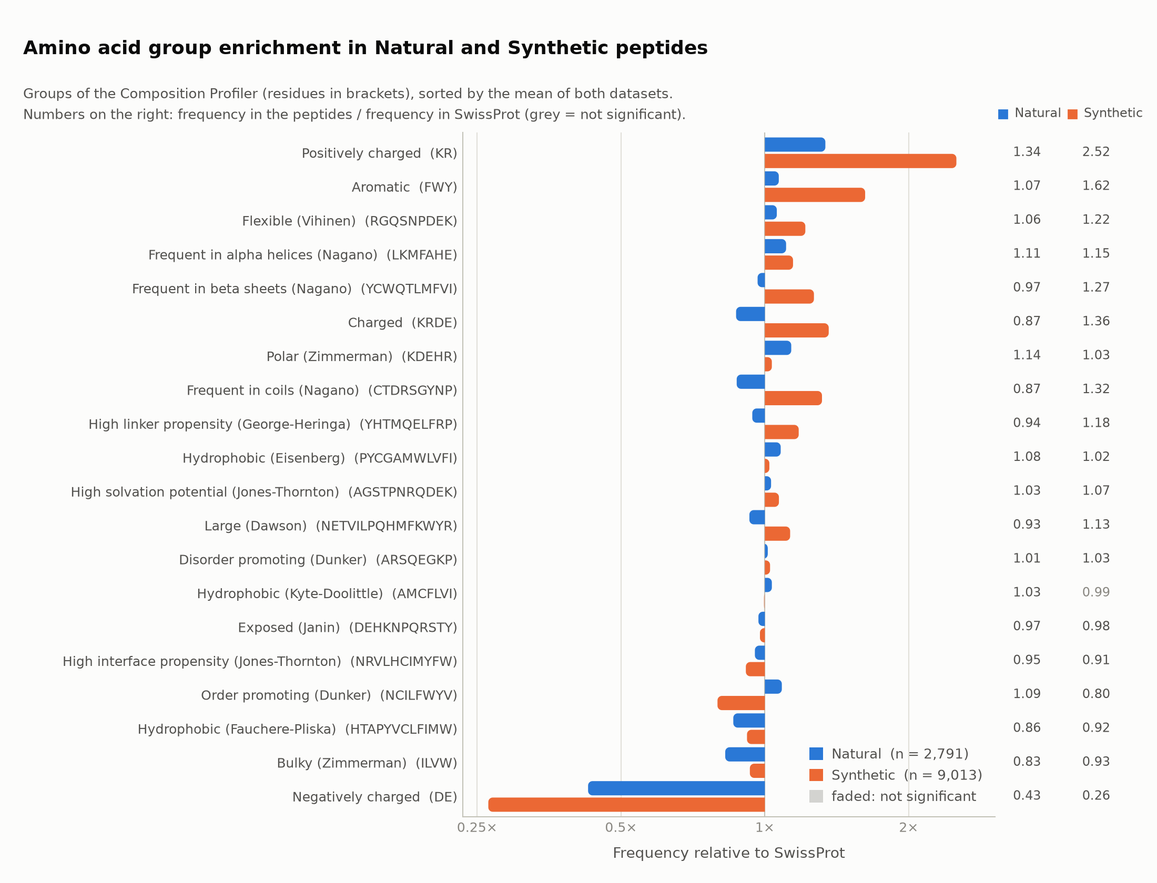
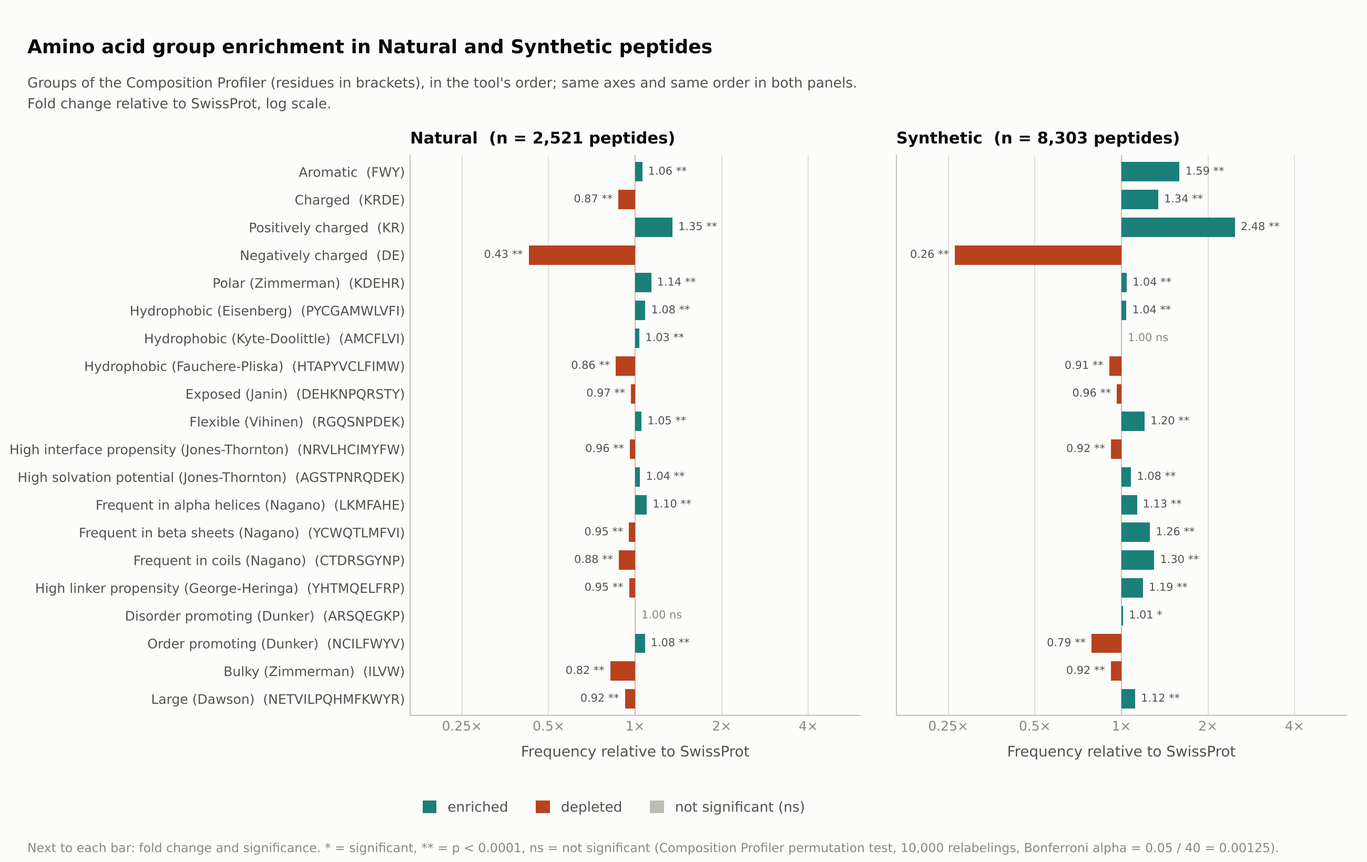
Redo amino acid enrichment on the cleaned data, update deliverables README
- 04 re-run (Composition Profiler, 10,000 permutations) on the 2,521 Natural and
  8,303 Synthetic peptides; tables regenerated.
- 05: both enrichment figures regenerated with one shared axis, order and scale,
  colour coding and significance marks.
- deliverables/README.md rewritten for the new dataset (X rules, minimum
  length, new counts, Ala caveat); main README points to the changes.

Claude-Session: https://claude.ai/code/session_014wtB1icSBmnpkHW4JDxkCH

diff --git a/deliverables/README.md b/deliverables/README.md
@@ -1,22 +1,23 @@
-# Deliverables: DBAASP peptides after CD-HIT, 90 % identity (Natural + Synthetic)
+# Deliverables: DBAASP peptides after cleaning and CD-HIT, 90 % identity (Natural + Synthetic)
 
-One FASTA of all Natural and Synthetic peptides after CD-HIT at 90 % identity, the exact count of sequences lost on the
-way, the length figures, and the amino acid enrichment of the two datasets against SwissProt. Everything here is rebuilt from
-`../raw_data/dbaasp_datasets_corrected.zip` by the four scripts in `scripts/`. Nothing outside this folder is read or changed
-except that zip (and, for step 4, the installed `cprofiler` package).
+One FASTA of all Natural and Synthetic peptides after cleaning (X handling, minimum length) and CD-HIT at 90 % identity, the exact
+count of sequences lost on the way, the length figures, and the amino acid enrichment of the two datasets against SwissProt.
+Everything here is rebuilt from `../raw_data/dbaasp_datasets_corrected.zip` by the five scripts in `scripts/`. Nothing outside
+this folder is read or changed except that zip (and, for steps 4 and 5, the installed `cprofiler` package).
 
 ```
 deliverables/
-  fasta/amp_cdhit90.fasta                 11,804 peptides (Natural + Synthetic), ">DBAASP_<ID>" + one-line upper-case sequence
-  fasta/amp_natural_cdhit90.fasta         the 2,791 Natural peptides of that file
-  fasta/amp_synthetic_cdhit90.fasta       the 9,013 Synthetic peptides of that file
+  fasta/amp_cdhit90.fasta                 10,824 peptides (Natural + Synthetic), ">DBAASP_<ID>" + one-line upper-case sequence
+  fasta/amp_natural_cdhit90.fasta         the 2,521 Natural peptides of that file
+  fasta/amp_synthetic_cdhit90.fasta       the 8,303 Synthetic peptides of that file
   figures/length_histogram_overlap.png         overlapping histograms + smooth lines: entire / Natural / Synthetic (each as % of its group)
   figures/length_histogram_overlap_counts.png  the same with peptide counts
   figures/length_category_fraction_bar.png     share of Natural and Synthetic peptides per length category
-  figures/amino_acid_enrichment.png            the 20 amino acids, Natural and Synthetic vs SwissProt (fold change, log scale)
+  figures/amino_acid_enrichment.png            the 20 amino acids, Natural and Synthetic in ONE image (same axes, same order, significance marks)
   figures/amino_acid_group_enrichment.png      the 20 amino acid groups of the Composition Profiler, the same way
   tables/redundancy_removal_summary.csv   step-by-step counts, Natural / Synthetic / Total
   tables/removed_records.csv              every lost record: why, and which kept peptide covers it (+ identity for CD-HIT)
+  tables/x_to_alanine_counts.csv          peptides and residues in which X was changed to Alanine
   tables/peptide_metadata.csv             FASTA ID -> origin, length, length category, sequence
   tables/length_summary.csv               numbers behind the histogram
   tables/length_category_fractions.csv    numbers behind the bar chart
@@ -25,13 +26,24 @@ deliverables/
   tables/aa_enrichment_background_check.csv       the same effects with AMP-named proteins removed from the background
   background/swissprot51_5k.fasta         SwissProt background, 5,002 proteins (identical to the tool's own `-D sprot` file)
   cdhit/                                  CD-HIT input, output, cluster file (.clstr) and log
-  scripts/01_remove_redundancy.py  02_make_figures.py  03_check_cdhit_result.py  04_aa_enrichment.py
+  scripts/01_remove_redundancy.py  02_make_figures.py  03_check_cdhit_result.py  04_aa_enrichment.py  05_enrichment_figures.py
 ```
+
+## 0. What changed in this version
+
+* **`X` (non-standard residue)** is no longer kept. Per peptide: if `X` is **30 % or more** of the peptide it is removed (1,214 peptides); below
+  that every `X` becomes **Alanine** (2,610 peptides, 4,494 residues, `tables/x_to_alanine_counts.csv`). Peptides made only of `X` were already removed.
+  The 30 % cutoff is my choice (`X_MAX_FRACTION` in script 01); the alternative of converting all `X` would keep peptides that are up to 89 % `X`.
+* **Minimum length:** a peptide needs at least **3 real (non-`X`) amino acids** (`MIN_REAL`); 775 peptides fall below it, including the
+  15 single-residue entries. The check runs before `X` becomes Ala.
+* Duplicates are searched **after** `X` -> Ala, because the change can make two peptides identical.
+* Amino acid figures: Natural and Synthetic share one image, identical axes, scale and amino acid order (hydrophilic -> hydrophobic),
+  colour-coded, with the Composition Profiler's significance marked (section 3).
 
 ## 1. Sequences lost
 
-**CD-HIT (>= 90 % identity) removed 6,735 sequences** (781 Natural, 5,954 Synthetic) of the 15,803 it was given (42.6 %).
-Counted from the raw DBAASP export, **13,738 of 25,542 rows are lost, 11,804 remain.**
+**CD-HIT (>= 90 % identity) removed 6,615 sequences** (760 Natural, 5,855 Synthetic) of the 15,289 it was given (43.3 %).
+Counted from the raw DBAASP export, **14,718 of 25,542 rows are lost, 10,824 remain.**
 
 | Step | what is removed | Natural | Synthetic | **Total lost** | left |
 |---|---|---|---|---|---|
@@ -39,17 +51,21 @@ Counted from the raw DBAASP export, **13,738 of 25,542 rows are lost, 11,804 rem
 | 1 | exact duplicate row (same entry, same ID, twice) | 406 | 1,594 | 2,000 | 23,542 |
 | 2 | multi-chain entry (several chains in one cell, length not reliable) | 97 | 538 | 635 | 22,907 |
 | 3 | sequence made only of `X` | 27 | 321 | 348 | 22,559 |
-| 4 | duplicate sequence within the same origin | 391 | 3,462 | 3,853 | 18,706 |
-| 5 | same sequence in Natural and in Synthetic (Natural entry kept) | 0 | 167 | 167 | 18,539 |
-| 6 | **CD-HIT, >= 90 % identity** | **781** | **5,954** | **6,735** | **11,804** |
-| | **final** | **2,791** | **9,013** | | |
+| 4 | **fewer than 3 real (non-`X`) amino acids** | 197 | 578 | 775 | 21,784 |
+| 5 | **`X` is >= 30 % of the peptide** | 261 | 953 | 1,214 | 20,570 |
+| | (remaining `X` -> Ala: 331 Natural + 2,279 Synthetic peptides, no loss) | | | | |
+| 6 | duplicate sequence within the same origin (after X -> Ala) | 224 | 2,786 | 3,010 | 17,560 |
+| 7 | same sequence in Natural and in Synthetic (Natural entry kept) | 0 | 121 | 121 | 17,439 |
+| 8 | **CD-HIT, >= 90 % identity** | **760** | **5,855** | **6,615** | **10,824** |
+| | **final** | **2,521** | **8,303** | | |
 
-Steps 1 to 4 are the existing cleaning of `scripts/01_clean_datasets.py`; they reproduce the repository's cleaned
-files ID for ID. Step 1 removes repeated rows of the same entry, so it is not a loss of distinct peptides: of the
-23,542 distinct entries, 11,738 are lost.
+Steps 1 to 3 and 6 are the existing cleaning of `scripts/01_clean_datasets.py`. Step 1 removes repeated rows of the same entry, so it is not a
+loss of distinct peptides: of the 23,542 distinct entries, 12,718 are lost. Because the new steps 4 and 5 run before the duplicate search,
+the duplicate steps find fewer duplicates than before (3,010 + 121 instead of 3,853 + 167), because many duplicates were already removed with the
+`X` and short peptides. Step counts are therefore not comparable one to one with the previous version (which kept 11,804).
 
-CD-HIT arithmetic: 18,539 peptides enter step 6. 2,736 of them are shorter than 10 aa and skip CD-HIT (section 4).
-The other 15,803 go in, 9,068 representatives come out, 6,735 are removed. 9,068 + 2,736 = 11,804.
+CD-HIT arithmetic: 17,439 peptides enter step 8. 2,150 of them are shorter than 10 aa and skip CD-HIT (section 4).
+The other 15,289 go in, 8,674 representatives come out, 6,615 are removed. 8,674 + 2,150 = 10,824.
 
 ## 2. Length figures
 
@@ -58,99 +74,111 @@ The other 15,803 go in, 9,068 representatives come out, 6,735 are removed. 9,068
 
 | | Natural | Synthetic | Entire |
 |---|---|---|---|
-| n | 2,791 | 9,013 | 11,804 |
-| median / mean length (aa) | 23 / 25.6 | 13 / 15.6 | 15 / 17.9 |
-| Q1 to Q3 | 13 to 34 | 9 to 20 | 10 to 22 |
+| n | 2,521 | 8,303 | 10,824 |
+| median / mean length (aa) | 24 / 27.5 | 14 / 16.1 | 16 / 18.8 |
+| Q1 to Q3 | 15 to 35 | 10 to 20 | 11 to 23 |
 
 | Share of group in category | Natural | Synthetic |
 |---|---|---|
-| 1 aa (out of range) | 0 % | 0.2 % |
-| Ultrashort 2-9 aa | 17.0 % | 24.9 % |
-| Short 10-24 aa | 37.9 % | **62.0 %** |
-| Medium 25-50 aa | **38.5 %** | 12.3 % |
-| Long 51-100 aa | 6.1 % | 0.5 % |
-| > 100 aa | 0.6 % | 0.02 % |
+| Ultrashort 3-9 aa | 11.2 % | 22.5 % |
+| Short 10-24 aa | 38.8 % | **63.7 %** |
+| Medium 25-50 aa | **42.6 %** | 13.2 % |
+| Long 51-100 aa | 6.7 % | 0.6 % |
+| > 100 aa | 0.7 % | 0.02 % |
 
-Natural peptides are longer (median 23 vs 13 aa) and make up most of the Long (170 of 217) and > 100 aa (17 of 19)
-peptides. Synthetic peptides sit mostly in the Short class. The Synthetic histogram has sharp spikes (e.g. 509 peptides at
-20 aa but 278 at 19 aa; also 12-13 and 18 aa), probably convenient design lengths.
+No peptide is shorter than 3 aa any more (so the "1 aa" and "2 aa" categories are empty and no longer drawn). Natural peptides are longer
+(median 24 vs 14 aa) and make up most of the Long (170 of 217) and > 100 aa (17 of 19) peptides. Synthetic peptides sit mostly in the Short class.
+The Synthetic histogram has sharp spikes (e.g. 659 peptides at 12 aa, 504 at 20 aa but 260 at 19 aa; also 9, 13 and 18 aa), probably convenient design lengths.
+The length figures carry no significance marks (the Composition Profiler gives p-values for composition only).
 
 ## 3. Amino acid enrichment vs SwissProt
 
 How much more or less often each amino acid occurs in the Natural and in the Synthetic peptides than in typical proteins
-(background = SwissProt).
+(background = SwissProt). Both datasets are in one image, with the same axes, the same scale and the same amino acid order.
 
 ![amino acid enrichment](figures/amino_acid_enrichment.png)
 
-**Method** (`scripts/04_aa_enrichment.py`, the same tool, functions and settings as `scripts/06_run_composition_profiler.py` of the main analysis)
+**Method** (`scripts/04_aa_enrichment.py` computes, `scripts/05_enrichment_figures.py` draws; the same tool, functions and settings as `scripts/06_run_composition_profiler.py` of the main analysis)
 * Tool: the official Composition Profiler, https://github.com/vvacic/cprofiler (v2.0).
-* Queries: `fasta/amp_natural_cdhit90.fasta` (2,791 peptides, 70,004 residues counted) and `fasta/amp_synthetic_cdhit90.fasta`
-  (9,013 peptides, 136,373 residues), i.e. the CD-HIT 90 % datasets of this folder.
+* Queries: `fasta/amp_natural_cdhit90.fasta` (2,521 peptides, 69,411 residues) and `fasta/amp_synthetic_cdhit90.fasta`
+  (8,303 peptides, 133,978 residues), i.e. the CD-HIT 90 % datasets of this folder. They contain no `X` any more.
 * Background, the same for both: `background/swissprot51_5k.fasta`, 5,002 randomly sampled SwissProt proteins (release 51,
   1,799,466 residues). It is the file the tool ships as `-D sprot` (checked byte for byte).
 * Effect = (frequency in the peptides - frequency in SwissProt) / frequency in SwissProt, residues pooled over all sequences.
-  The tables and figures use the **fold change = 1 + effect** (2.82 means 2.82 times as frequent as in SwissProt).
+  The tables and figures use the **fold change = 1 + effect** (2.77 means 2.77 times as frequent as in SwissProt).
 * p-value: 10,000 random relabelings of whole sequences between peptides and background, two-tailed, so the smallest value is
   1 / 10,000 (a 0 in the table means p < 0.0001). Significant = p < 0.05 / 40 = 0.00125 (Bonferroni, 20 amino acids + 20 groups).
   The seed is fixed, so a re-run gives the same table.
+
+**How the figures are built (so that they can be compared)**
+* Same x axis in both panels: the amino acids in the Composition Profiler's own hydrophobicity order (Kyte-Doolittle, `-X hydrophobicity_kyte`),
+  from hydrophilic (R) to hydrophobic (I). Same y axis in both panels: fold change on one log scale, 0.16x to 9.8x.
+* Bars are colour-coded along that order (red = hydrophilic ... dark blue = hydrophobic). **Gray bars are not significant.**
+* Marks next to every bar: `*` significant (p < 0.00125 after Bonferroni), `**` p < 0.0001 (no random relabeling reached the observed
+  effect, the smallest value 10,000 iterations can give), `ns` not significant. The numbers are the Composition Profiler's own call.
+* The group figure uses the same two-panel layout, the tool's group order in both panels, and colours enriched (teal), depleted (rust), not significant (gray).
 
 **Single amino acids** (fold change vs SwissProt; `tables/aa_enrichment_natural_vs_synthetic.csv` also has the frequencies, effects and p-values)
 
 | Amino acid | in SwissProt (% of residues) | Natural | Natural result | Synthetic | Synthetic result |
 |---|---|---|---|---|---|
-| A | 7.91 | 0.97 | Not significant | 0.82 | Depleted |
-| C | 1.50 | 4.43 | Enriched | 1.35 | Enriched |
-| D | 5.36 | 0.49 | Depleted | 0.25 | Depleted |
+| A | 7.91 | 1.04 | Not significant | 0.96 | Depleted |
+| C | 1.50 | 4.45 | Enriched | 1.34 | Enriched |
+| D | 5.36 | 0.48 | Depleted | 0.25 | Depleted |
 | E | 6.68 | 0.38 | Depleted | 0.27 | Depleted |
-| F | 3.98 | 1.15 | Enriched | 1.39 | Enriched |
-| G | 6.97 | 1.58 | Enriched | 0.85 | Depleted |
+| F | 3.98 | 1.14 | Enriched | 1.34 | Enriched |
+| G | 6.97 | 1.57 | Enriched | 0.83 | Depleted |
 | H | 2.30 | 0.90 | Depleted | 0.87 | Depleted |
-| I | 5.98 | 1.04 | Not significant | 1.07 | Enriched |
-| K | 5.96 | 1.61 | Enriched | 2.82 | Enriched |
-| L | 9.71 | 0.92 | Depleted | 1.26 | Enriched |
-| M | 2.39 | 0.51 | Depleted | 0.39 | Depleted |
+| I | 5.98 | 1.03 | Not significant | 1.07 | Enriched |
+| K | 5.96 | 1.62 | Enriched | 2.77 | Enriched |
+| L | 9.71 | 0.91 | Depleted | 1.25 | Enriched |
+| M | 2.39 | 0.52 | Depleted | 0.39 | Depleted |
 | N | 4.12 | 0.89 | Depleted | 0.51 | Depleted |
-| P | 4.77 | 1.07 | Enriched | 0.69 | Depleted |
-| Q | 3.91 | 0.65 | Depleted | 0.54 | Depleted |
-| R | 5.45 | 1.04 | Enriched | 2.19 | Enriched |
-| S | 6.74 | 0.85 | Depleted | 0.51 | Depleted |
-| T | 5.32 | 0.77 | Depleted | 0.45 | Depleted |
-| V | 6.76 | 0.88 | Depleted | 0.80 | Depleted |
-| W | 1.15 | 1.46 | Enriched | 5.03 | Enriched |
+| P | 4.77 | 1.05 | Enriched | 0.68 | Depleted |
+| Q | 3.91 | 0.64 | Depleted | 0.54 | Depleted |
+| R | 5.45 | 1.05 | Enriched | 2.17 | Enriched |
+| S | 6.74 | 0.84 | Depleted | 0.51 | Depleted |
+| T | 5.32 | 0.76 | Depleted | 0.44 | Depleted |
+| V | 6.76 | 0.86 | Depleted | 0.80 | Depleted |
+| W | 1.15 | 1.44 | Enriched | 5.01 | Enriched |
 | Y | 3.06 | 0.81 | Depleted | 0.64 | Depleted |
 
 **Amino acid groups** (selection; all 20 groups are in `figures/amino_acid_group_enrichment.png` and the csv)
 
 | Group | Residues | Natural | Natural result | Synthetic | Synthetic result |
 |---|---|---|---|---|---|
-| Positively charged | KR | 1.34 | Enriched | 2.52 | Enriched |
+| Positively charged | KR | 1.35 | Enriched | 2.48 | Enriched |
 | Negatively charged | DE | 0.43 | Depleted | 0.26 | Depleted |
-| Charged | KRDE | 0.87 | Depleted | 1.36 | Enriched |
-| Aromatic | FWY | 1.07 | Enriched | 1.62 | Enriched |
-| Hydrophobic (Eisenberg) | PYCGAMWLVFI | 1.08 | Enriched | 1.02 | Enriched |
-| Hydrophobic (Kyte-Doolittle) | AMCFLVI | 1.03 | Enriched | 0.99 | Not significant |
-| Hydrophobic (Fauchere-Pliska) | HTAPYVCLFIMW | 0.86 | Depleted | 0.92 | Depleted |
-| Order promoting (Dunker) | NCILFWYV | 1.09 | Enriched | 0.80 | Depleted |
+| Charged | KRDE | 0.87 | Depleted | 1.34 | Enriched |
+| Aromatic | FWY | 1.06 | Enriched | 1.59 | Enriched |
+| Hydrophobic (Eisenberg) | PYCGAMWLVFI | 1.08 | Enriched | 1.04 | Enriched |
+| Hydrophobic (Kyte-Doolittle) | AMCFLVI | 1.03 | Enriched | 1.00 | Not significant |
+| Hydrophobic (Fauchere-Pliska) | HTAPYVCLFIMW | 0.86 | Depleted | 0.91 | Depleted |
+| Order promoting (Dunker) | NCILFWYV | 1.08 | Enriched | 0.79 | Depleted |
 
 ![amino acid group enrichment](figures/amino_acid_group_enrichment.png)
 
 **What it shows**
-* **Both datasets look like antimicrobial peptides: rich in K, R and W, poor in D and E.** The positively charged group is x1.34 (Natural)
-  and x2.52 (Synthetic), the negatively charged group x0.43 and x0.26. D and E are among the most depleted residues in both.
-* **Synthetic peptides push this recipe much further:** Trp x5.03 (5.77 % of all residues against 1.15 % in SwissProt), Lys x2.82 (16.8 %),
-  Arg x2.19. Natural peptides: Lys x1.61, Trp x1.46, and Arg x1.04, which is hardly a change.
-* **Natural peptides are marked by Cys and Gly:** Cys x4.43 (6.6 % of residues against 1.5 %), consistent with disulfide-rich peptides
-  such as defensins, and Gly x1.58. In Synthetic, Cys is x1.35 and Gly x0.85.
-* **The two datasets go in opposite directions for** Gly (x1.58 vs x0.85), Leu (x0.92 vs x1.26), Pro (x1.07 vs x0.69), the group "Charged"
-  (x0.87 vs x1.36) and "Order promoting" (x1.09 vs x0.80). These are the differences that say something about origin; the shared K/R/W/D/E pattern
+* **Both datasets look like antimicrobial peptides: rich in K, R and W, poor in D and E.** The positively charged group is x1.35 (Natural)
+  and x2.48 (Synthetic), the negatively charged group x0.43 and x0.26. D and E are among the most depleted residues in both.
+* **Synthetic peptides push this recipe much further:** Trp x5.01 (5.74 % of all residues against 1.15 % in SwissProt), Lys x2.77 (16.5 %),
+  Arg x2.17. Natural peptides: Lys x1.62, Trp x1.44, and Arg x1.05, which is hardly a change.
+* **Natural peptides are marked by Cys and Gly:** Cys x4.45 (6.7 % of residues against 1.5 %), consistent with disulfide-rich peptides
+  such as defensins, and Gly x1.57. In Synthetic, Cys is x1.34 and Gly x0.83.
+* **The two datasets go in opposite directions for** Gly (x1.57 vs x0.83), Leu (x0.91 vs x1.25), Pro (x1.05 vs x0.68), the group "Charged"
+  (x0.87 vs x1.34) and "Order promoting" (x1.08 vs x0.79). These differences say something about origin; the shared K/R/W/D/E pattern
   says something about antimicrobial peptides in general.
-* **No consistent hydrophobicity shift:** the three hydrophobicity scales disagree (Eisenberg x1.08 / x1.02, Kyte-Doolittle x1.03 / x0.99,
-  Fauchere-Pliska x0.86 / x0.92).
-* **Read the size of the fold change, not the p-value.** With thousands of peptides almost everything is significant: only A and I in
-  Natural and the Kyte-Doolittle group in Synthetic are not. As a rule of thumb (my choice, not the tool's), a fold change within 0.9 to 1.1 is negligible.
-* Close to the main analysis (README section 7, which used the older per-origin sets): e.g. Synthetic Trp x4.8, Lys x2.7, Arg x2.1 and Natural Cys x4.4 there.
+* **No consistent hydrophobicity shift:** the three hydrophobicity scales disagree (Eisenberg x1.08 / x1.04, Kyte-Doolittle x1.03 / x1.00,
+  Fauchere-Pliska x0.86 / x0.91).
+* **Read the size of the fold change, not the p-value.** With thousands of peptides almost everything is significant. Not significant after
+  Bonferroni: A and I in Natural, the group Disorder promoting (Dunker) in Natural and the Kyte-Doolittle hydrophobic group in Synthetic. R and P in Natural
+  and A in Synthetic are only just significant (`*`, p between 0.0002 and 0.0006). As a rule of thumb (my choice, not the tool's), a fold change within 0.9 to 1.1 is negligible.
+* Close to the previous version of this folder (Synthetic Trp x5.03, Lys x2.82, Natural Cys x4.43): the X and length changes did not alter the picture.
 
 **Limits**
+* **`X` became Ala in some peptides, which inflates Alanine.** 0.8 % of the Natural and 2.9 % of the Synthetic residues are Ala only because they were `X`.
+  The Synthetic Ala frequency of 7.56 % therefore contains 2.9 percentage points of converted `X`; without them Ala would be clearly depleted (about x0.6). Read the Ala bars with this in mind.
+  The other 19 amino acids are slightly diluted by the same amount.
 * **SwissProt is a background of normal, mostly long proteins** (mean about 360 aa), the queries are short peptides. "Enriched" means
   "different from a typical protein", not "different from a random peptide".
 * **The background is old and small** (release 51, a 5,002-protein sample, no current UniProt download was possible in the original
@@ -158,10 +186,8 @@ How much more or less often each amino acid occurs in the Natural and in the Syn
 * **Is the background non-AMP?** SwissProt is not filtered for AMPs. A screen of the protein names finds 12 of the 5,002 proteins with an AMP-type
   name (defensins, cecropins, dermaseptin, hepcidin ...). Without them no effect changes by more than 0.006 and no test result changes
   (`tables/aa_enrichment_background_check.csv`). The screen is by name only, so an AMP with an uninformative name would not be found.
-  If you meant another non-AMP background (for example non-AMP peptides), replace the background FASTA and re-run step 4.
 * Residues are pooled, so long peptides weigh more than short ones, and Natural and Synthetic differ in length; there is no length adjustment.
-  `X` and other non-standard letters are skipped (1,334 Natural and 3,988 Synthetic residues); D-amino acids count as their L form (the FASTA is upper case).
-  Peptides shorter than 10 aa were not clustered (section 4).
+  D-amino acids count as their L form (the FASTA is upper case).
 * The tool's group names contain two typos ("propencity", "potenential"): kept in the csv, corrected in the figure.
 
 ## 4. Method (CD-HIT)
@@ -174,10 +200,10 @@ cd-hit -i input_ge10aa.fasta -o cdhit_ge10aa.fasta -c 0.9 -n 5 -d 0 -l 9 -M 0 -T
   is in both groups, the Natural entry is kept.
 * **Peptides shorter than 10 aa are not sent to CD-HIT**, the existing rule of `scripts/02_run_cdhit.py`.
 * **`-l 9` matters.** cd-hit's default `-l 10` silently discards every sequence of 10 aa or fewer. The script checks that
-  cd-hit read exactly as many sequences as it was sent (15,803), and stops if not.
+  cd-hit read exactly as many sequences as it was sent (15,289), and stops if not.
 * `-T 1`: one thread, so the result is reproducible. The output is byte-identical on re-run.
 * FASTA headers use the DBAASP ID (`>DBAASP_11`), not a running number, so every entry can be traced back to the database.
-  Sequences are upper case (D-amino acids are lower case in the csv files); `X` (non-standard residue) is kept.
+  Sequences are upper case (D-amino acids are lower case in the csv files); `X` no longer occurs (removed or changed to Ala, section 0).
   Origin is not in the header: use the two per-origin files (same records, same headers, same order as the combined file)
   or `tables/peptide_metadata.csv`.
 
@@ -188,23 +214,23 @@ cd-hit -i input_ge10aa.fasta -o cdhit_ge10aa.fasta -c 0.9 -n 5 -d 0 -l 9 -M 0 -T
    were sent, Synthetic 12,029 of 12,818. So 87 + 789 = 876 ten-aa peptides were dropped and counted as "removed by CD-HIT"
    (section 4 of the main README: 775 / 6,042 removed, 2,797 / 9,092 kept). Clustered per origin with the fix, the result would be
    2,881 / 9,665. These deliverables do not have the problem. The existing scripts, tables and analyses were left as they were.
-2. **Combined vs separate clustering.** Clustering together removed 1,701 Synthetic peptides because a Natural peptide covers
+2. **Combined vs separate clustering.** Clustering together removed 1,673 Synthetic peptides because a Natural peptide covers
    them, and 132 Natural ones because a Synthetic peptide does. Clustering each origin on its own (the old way) would keep
-   12,546 peptides (2,881 / 9,665) but the FASTA would still hold Natural/Synthetic near-duplicates. The medians hardly change
-   (Natural 23 either way; Synthetic 14 vs 13), so the length conclusions do not depend on this choice.
-3. **CD-HIT is greedy**, so which peptide is kept depends a little on the input order (in a test with a different input order the
-   separate-clustering numbers moved by 3 and 6 peptides). The deliverable numbers are for the input order of script 01 and are reproducible.
+   11,503 peptides (2,611 / 8,892) but the FASTA would still hold Natural/Synthetic near-duplicates. The medians do not change
+   (Natural 24, Synthetic 14 either way), so the length conclusions do not depend on this choice.
+3. **CD-HIT is greedy**, so which peptide is kept depends a little on the input order (in a test on the previous version of the dataset, a different input order moved the
+   separate-clustering numbers by 3 and 6 peptides). The deliverable numbers are for the input order of script 01 and are reproducible.
 4. **Peptides of 5-9 aa are not clustered.** Two different peptides of up to 9 aa cannot be 90 % identical, but a short peptide
    can be an exact fragment of a longer one. If the 5-9 aa peptides are clustered too (cd-hit cannot read anything under 5 aa),
-   **492 more are removed** (478 Synthetic, 14 Natural), leaving 11,312. The final FASTA has 2,255 peptides of 5-9 aa,
-   466 of 2-4 aa and 15 of 1 aa.
-5. **15 single-amino-acid entries** (all Synthetic, class "out of range") are kept, as in the existing cleaning. Remove them for a
-   strict peptide set (11,789).
-6. **Length categories** follow the `Length_Class` column of the data (all 11,804 agree). The data labels the class "Long (50-100 aa)", but
+   **456 more are removed** (448 Synthetic, 8 Natural), leaving 10,368. The final FASTA has 1,929 peptides of 5-9 aa,
+   221 of 3-4 aa and none shorter.
+5. **No peptide is shorter than 3 aa** in the final set (the 15 single-amino-acid entries of the earlier version and all 2-aa peptides
+   with fewer than 3 real residues are gone, step 4). Peptides of 3-9 aa are kept; the "Ultrashort" class is therefore 3-9 aa here.
+6. **Length categories** follow the `Length_Class` column of the data (all 10,824 agree). The data labels the class "Long (50-100 aa)", but
    50-aa peptides are in Medium; Long is 51-100 aa and is labelled so here.
 7. **The histogram axis stops at 100 aa**; the 19 longer peptides (17 Natural, 2 Synthetic, longest 190 aa) are named in the
    figure footnote and are in the tables. The overlapping histograms are scaled to 100 % of their own group, because Natural
-   (2,791) is much smaller than Synthetic (9,013); the counts version is `length_histogram_overlap_counts.png`.
+   (2,521) is much smaller than Synthetic (8,303); the counts version is `length_histogram_overlap_counts.png`.
    The smooth lines are a Gaussian kernel density with a 3 aa bandwidth, mirrored at the 1 aa edge, using all peptides
    (also those over 100 aa). Each line has an area of 100 %, so it is on the same scale as the bars. The wider the
    bandwidth, the more the design-length spikes are averaged out; the bars underneath still show them.
@@ -218,7 +244,8 @@ git clone https://github.com/vvacic/cprofiler && pip install -e cprofiler     # 
 python deliverables/scripts/01_remove_redundancy.py
 python deliverables/scripts/02_make_figures.py
 python deliverables/scripts/03_check_cdhit_result.py      # optional: checks and what-ifs
-python deliverables/scripts/04_aa_enrichment.py           # about 1 minute (4 x 10,000 permutations)
+python deliverables/scripts/04_aa_enrichment.py           # about 1 minute (4 x 10,000 permutations); writes the tables
+python deliverables/scripts/05_enrichment_figures.py      # draws the two enrichment figures from the table
 ```
 `tables/removed_records.csv` columns: `STEP` (as in the table above), `COVERED_BY` (kept peptide with the same or a >= 90 % identical
-sequence, for steps 1, 4, 5 and 6), `IDENTITY_%` (CD-HIT only).
+sequence, for steps 1, 6, 7 and 8), `IDENTITY_%` (CD-HIT only).

diff --git a/README.md b/README.md
@@ -10,7 +10,9 @@ Everything uses columns that already exist in the data. No new parameters were c
 All scripts are short, numbered, and can be read from top to bottom.
 
 **Deliverables:** [`deliverables/`](deliverables/README.md) holds the single FASTA after CD-HIT at 90 % identity (Natural + Synthetic),
-the exact number of sequences lost to CD-HIT, the length histogram and category bar chart, and the amino acid enrichment against SwissProt.
+the exact number of sequences lost, the length histogram and category bar chart, and the amino acid enrichment against SwissProt.
+The deliverables use stricter cleaning than the main analysis below: peptides with fewer than 3 real amino acids or with 30 % or more `X` are removed,
+and the remaining `X` become Alanine (details in `deliverables/README.md`, section 0).
 Note: that folder re-runs CD-HIT with `-l 9`. The default `-l 10` used in step 02 below silently drops all 10-aa peptides,
 so the CD-HIT counts in section 4 are slightly overstated (details in `deliverables/README.md`, section 5).
 
